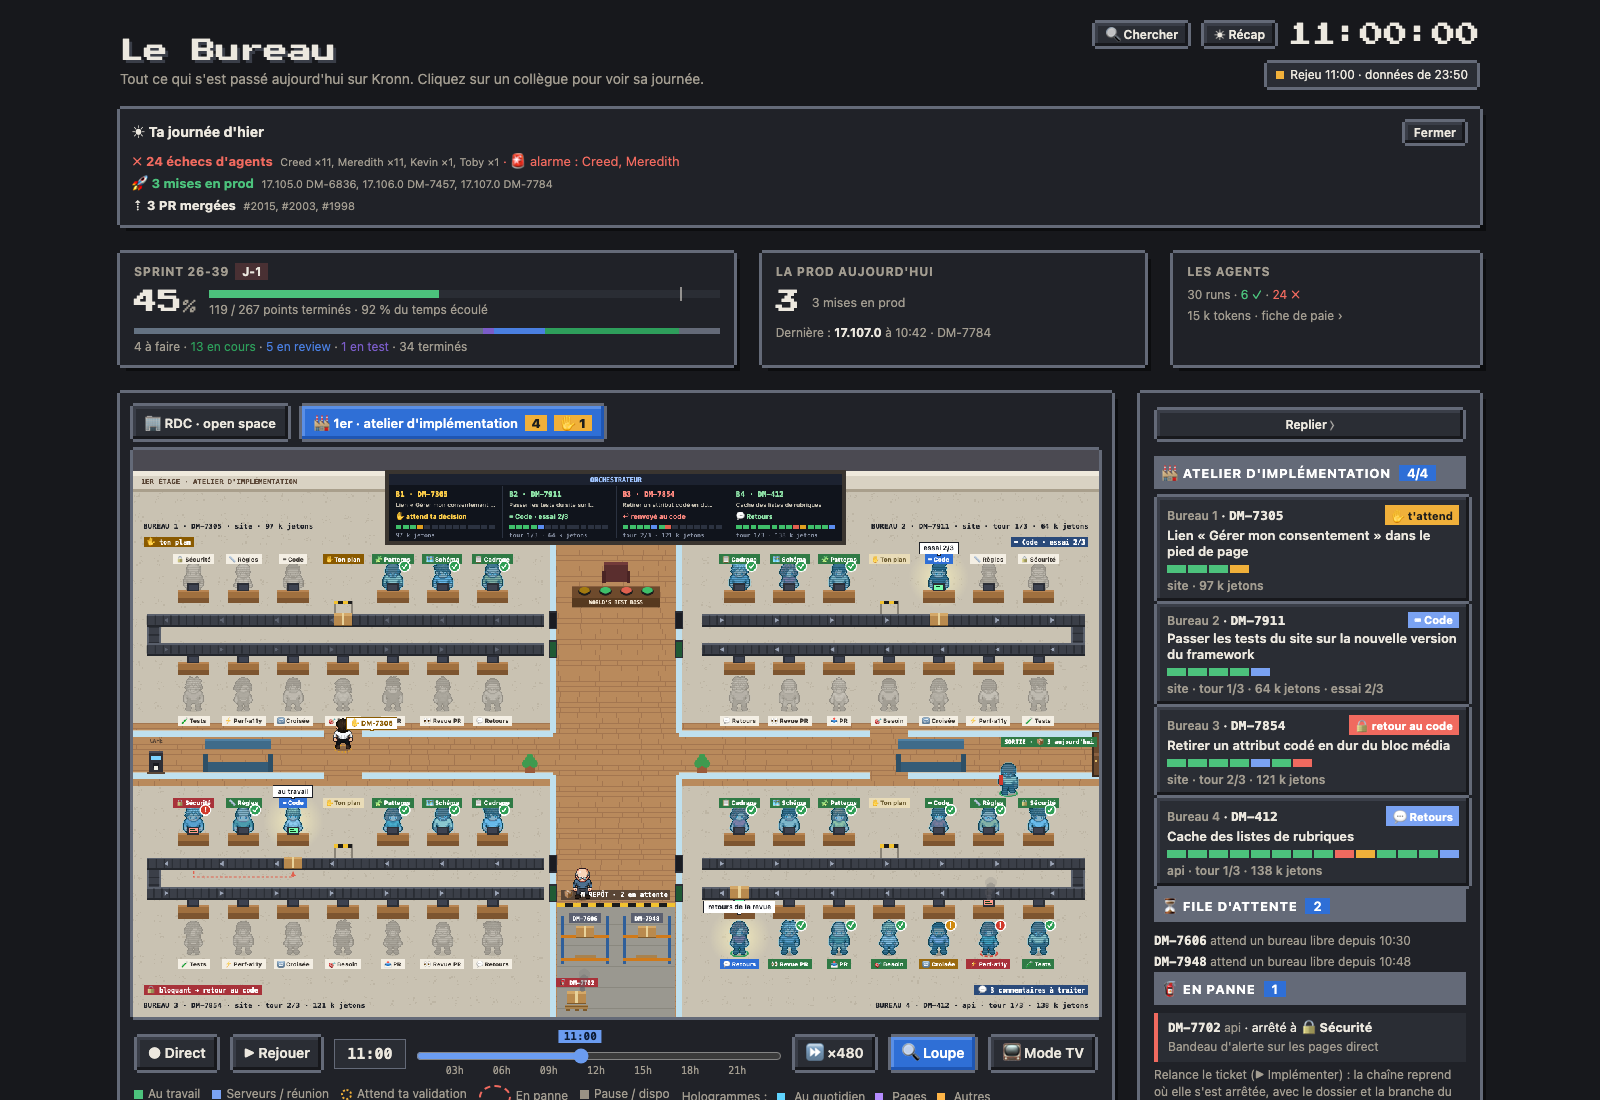
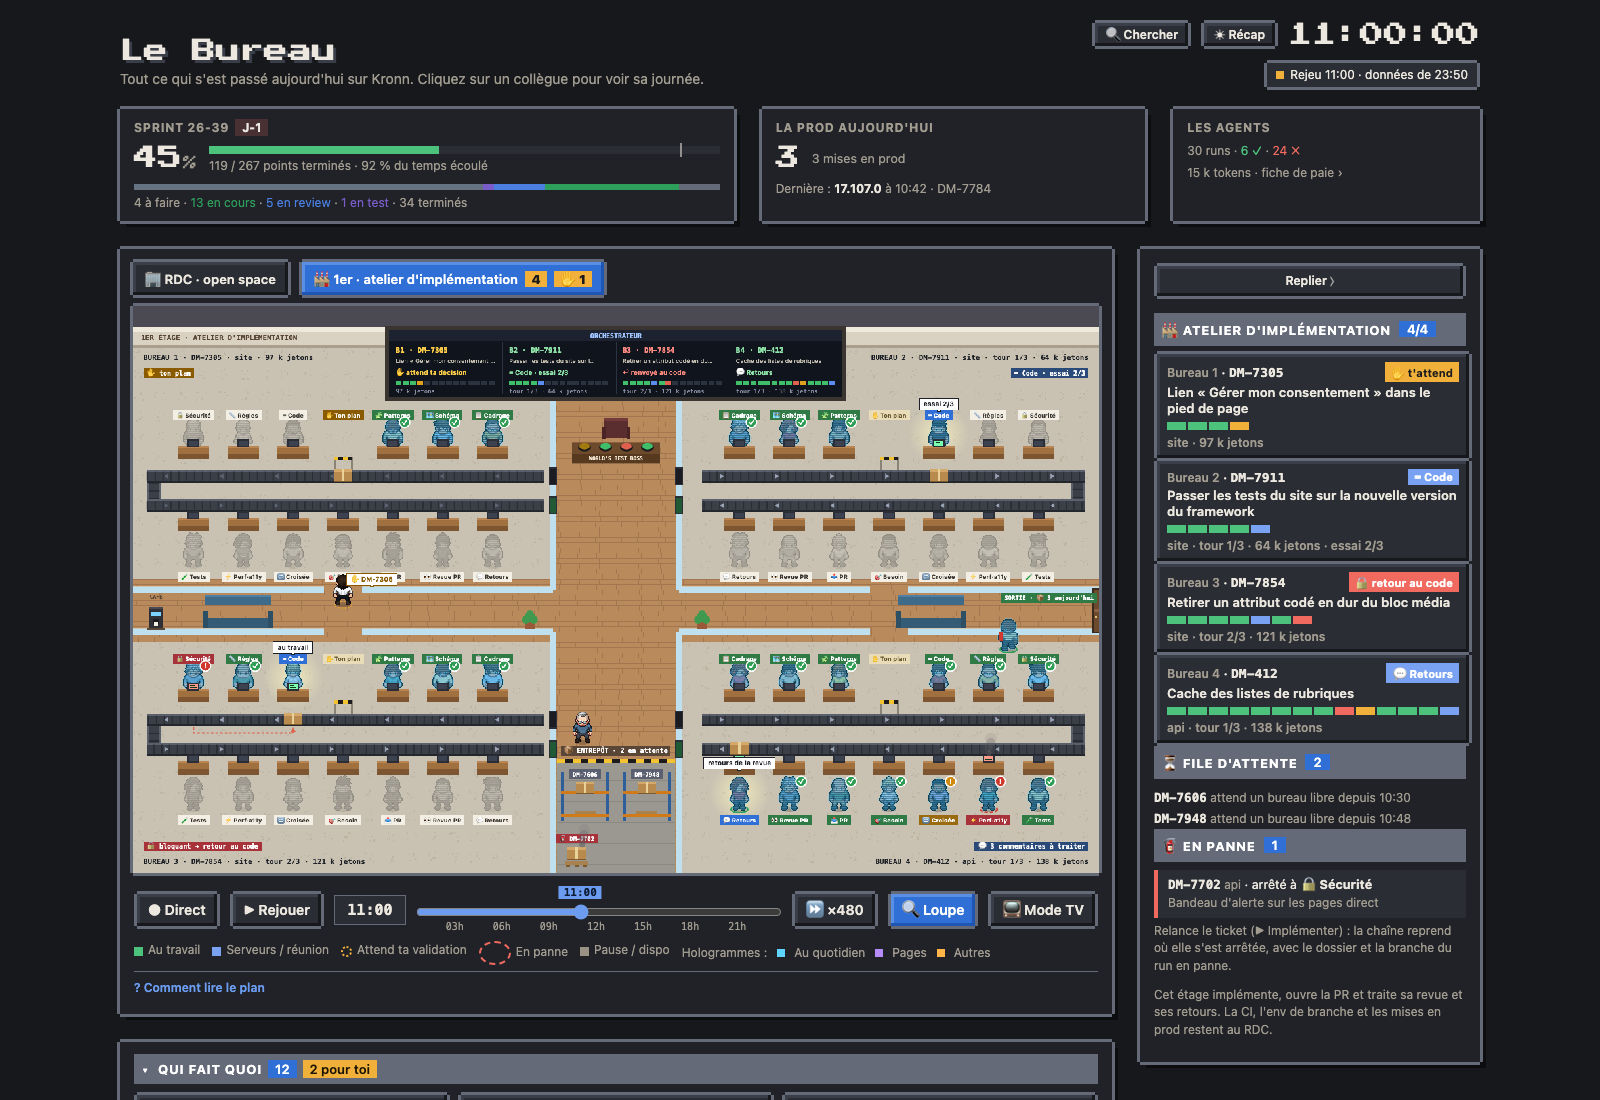
feat(atelier): Bernard un peu moins dégarni, Père Noël et fantôme ; titres des bureaux du haut sous le mur ; l'étage au calme en référence visuelle
- Bernard : coupe high_and_tight grise ; à Noël le Père Noël (tenue rouge, barbe
  blanche, bonnet du thème), à Halloween un fantôme avec sa citrouille.
- Titres des bureaux 1 et 2 juste sous le mur, la note dessous.
- Régression visuelle : nouvelle capture atelier-calme (bureaux libres, Bernard à
  l'entrepôt) ; pas de promeneurs avec « réduire les animations », donc des
  captures identiques d'une machine à l'autre.
- Captures du guide : le récap du matin fermé, elles ne dépendent plus de l'heure.

diff --git a/page/src/68-atelier.js b/page/src/68-atelier.js
@@ -90,7 +90,7 @@ const AT_WANDER_MAX=4, AT_WANDER_ROOM=2; // promeneurs des bureaux libres : sur 
 function atGeo(i){
   const [x0,y0,x1,y1,L,top]=AT_ROOMS[i], T=AT_TS, o=top?0:-.9, Y=v=>(y0+v+o)*T;
   const g={i,x0,y0,x1,y1,L:!!L,top:!!top,bx0:(x0+1.7)*T,bx1:(x1-1.7)*T,H:.6*T,b1:Y(4.8),b2:Y(6.2),lab1:Y(2.3),desk1:Y(3.65),feet1:Y(3.85),
-    desk2:Y(7.1),feet2:Y(9.35),lab2:Y(10.0),head:top?(y0+.75)*T:(y1-.45)*T,noteY:top?(y0+1.5)*T:(y1-1.15)*T,wallX:(L?AT_CX0:AT_CX1)*T};
+    desk2:Y(7.1),feet2:Y(9.35),lab2:Y(10.0),head:top?(y0-.45)*T:(y1-.45)*T,noteY:top?(y0+.3)*T:(y1-1.15)*T,wallX:(L?AT_CX0:AT_CX1)*T};
   g.sw=(g.bx1-g.bx0)/7;g.ex=L?g.bx1+.6*T:g.bx0-.6*T;g.turnX=L?g.bx0-1.05*T:g.bx1+.35*T;g.tm=g.turnX+.35*T;
   g.door={x:(x0+x1)/2*T,y:(top?AT_HY0:AT_HY1)*T};g.aisle=top?(y1-.45)*T:(y0+.55)*T;
   g.hatch=row=>({x:g.wallX+(L?.7:-.7)*T,y:(row===1?g.b1:g.b2)+g.H/2+12});
@@ -185,6 +185,7 @@ function atHome(i,k){const g=AT_G[i], s=atSpot(g,k);return {x:s.x,y:s.row===1?g.
 function atWanderPath(i,k,spot){const g=AT_G[i], h=atHome(i,k);return [h,{x:h.x,y:g.aisle},{x:g.door.x,y:g.aisle},{x:g.door.x,y:AT_MY},{x:spot.x,y:spot.y}];}
 // une image : sorties, retours à la place, nouveaux promeneurs (rnd : tirage, remplaçable pour les tests)
 function atWanderTick(slots,now,dt,rnd){
+  if(REDUCED_MOTION&&!rnd){AT_MEM.wander=[];return;}
   rnd=rnd||Math.random;
   const free=i=>!slots[i]&&!AT_MEM.leaving[i];
   for(const w of AT_MEM.wander){
@@ -420,11 +421,22 @@ function xmasTreeAt(x,y,now){ctx.fillStyle='#2f7a3a';for(let k=0;k<3;k++){ctx.be
 // ---------- Bernard : il apporte les tickets de l'entrepôt et emporte ceux qui sortent ----------
 // Un vrai personnage (pas un hologramme) : homme âgé, dégarni, lunettes, blouse de travail. Un seul Bernard : les
 // livraisons passent l'une après l'autre ; entre deux, il attend à l'entrepôt.
-RECIPES.at_bernard=RECIPES.at_bernard||{sex:'male',head:'male_elderly',skin:'light',hair:'balding',hair_color:'#c9c9c9',glasses:'glasses',
+// Noël : il devient le Père Noël (tenue rouge, barbe blanche, le bonnet du thème) ; Halloween : un fantôme sous son drap
+RECIPES.at_bernard=RECIPES.at_bernard||{sex:'male',head:'male_elderly',skin:'light',hair:'high_and_tight',hair_color:'#c9c9c9',glasses:'glasses',
   torso:'longsleeve/longsleeve',shirt:'#4a6b8a',legs:'pants',legs_color:'#3a3f4a',shoes:'#2a1f18'};
-const AT_BERNARD_HOME={x:AT_MX-1.6*AT_TS,y:21.3*AT_TS};
-function atBernard(pos,dir,moving){return {key:'at_bernard',sprite:'at_bernard',name:'Bernard',role:'Manutentionnaire',person:true,pos:{x:pos.x,y:pos.y},tile:null,
+RECIPES.at_bernard_noel=RECIPES.at_bernard_noel||{...RECIPES.at_bernard,hair_color:'#f4f4f4',beard:'beard/basic',shirt:'#c8323a',legs_color:'#c8323a',shoes:'#1c1c1c'};
+const AT_BERNARD_HOME={x:AT_MX-1.6*AT_TS,y:20.75*AT_TS};
+function atBernard(pos,dir,moving){return {key:'at_bernard',sprite:themeIs('noel')?'at_bernard_noel':'at_bernard',ghost:themeIs('halloween'),name:'Bernard',role:'Manutentionnaire',person:true,pos:{x:pos.x,y:pos.y},tile:null,
   dir:dir||'down',moving:!!moving,pose:'stand',present:true,phase:1.3,_st:{st:moving?'work':'idle'}};}
+function atGhost(c,now){
+  const x=Math.round(c.pos.x), y=Math.round(c.pos.y)-4-Math.round(Math.sin(now/300)*2), side=c.dir==='left'?-1:c.dir==='right'?1:0;
+  ctx.fillStyle='rgba(0,0,0,.18)';ctx.beginPath();ctx.ellipse(x,c.pos.y+1,11,4,0,0,7);ctx.fill();
+  ctx.fillStyle='#f4f2ee';ctx.beginPath();ctx.arc(x,y-36,13,Math.PI,0);ctx.lineTo(x+13,y-4);
+  for(let k=0;k<4;k++){const w=26/4;ctx.lineTo(x+13-w*(k+.5),y-(k%2?6:0)-((Math.floor(now/200)+k)%2)*2);ctx.lineTo(x+13-w*(k+1),y-4);}ctx.closePath();ctx.fill();
+  ctx.strokeStyle='#c9c4ba';ctx.lineWidth=1;ctx.stroke();
+  if(c.dir!=='up'){R(ctx,x-6+side*3,y-40,3,5,'#1c1c1c');R(ctx,x+3+side*3,y-40,3,5,'#1c1c1c');R(ctx,x-2+side*3,y-31,4,3,'#1c1c1c');}
+  E('🎃',x+(side||1)*14,y-12,12);
+}
 // ---------- scènes : livraison d'un ticket (entrepôt -> trappe d'entrée), sortie (trappe de sortie -> porte) ----------
 function atScenes(now,dt,people){
   const sc=AT_MEM.scenes[0];
@@ -471,7 +483,7 @@ function renderAtelier(now){
     atHit('agent',w.walk.pos.x-14,w.walk.pos.y-56,28,58,{i:w.i,k:w.k});}
   atScenes(now,dt,people);
   atBoss(slots,now,dt,people);
-  people.sort((a,b)=>a[0].pos.y-b[0].pos.y).forEach(([c,d,before,after])=>{if(before&&d)d();drawChar(c,now);if(!before&&d)d();if(after)after();});
+  people.sort((a,b)=>a[0].pos.y-b[0].pos.y).forEach(([c,d,before,after])=>{if(before&&d)d();if(c.ghost)atGhost(c,now);else drawChar(c,now);if(!before&&d)d();if(after)after();});
   atSofaFront(5*T,AT_HY0*T+44);atSofaFront(38*T,AT_HY0*T+44);
   atBoard(slots);
   atPicked(slots,now);

diff --git a/tools/shots.py b/tools/shots.py
@@ -20,7 +20,8 @@ from smoke import CHROME, CHROME_ARGS, TAB_WAIT, free_port, team_config, wait_ta
 OUT = os.path.join(ROOT, "guide", "img")
 PORT = 9335
 # avant chaque capture : hors mode TV (mémorisé par le navigateur), lecture en pause à 11h, personnages posés à leur place
-AT = lambda h: f"applySkin('classique');if(TV)setTv(false);setMode('pause');T=DAY0+{h}*3600e3;needTeleport=true;"  # noqa: E731
+# récap du matin fermé : il s'ouvre seul avant midi (heure réelle), la capture ne dépend pas de l'heure où on la prend
+AT = lambda h: f"applySkin('classique');if(TV)setTv(false);setMode('pause');T=DAY0+{h}*3600e3;needTeleport=true;RECAP_OPEN=false;renderRecap();"  # noqa: E731
 WAIT = "new Promise(r=>setTimeout(r,2500))"
 # nom -> (largeur, hauteur, JS de mise en scène, sélecteur à rogner ; None = la fenêtre[, échelle de la capture[, autre plan]])
 # pages Kronn du boss simulées (#61) : 5 pages aux miniatures dessinées, le workflow pages branché, deux pages à ajouter
@@ -273,6 +274,8 @@ SHOTS = {
     # 1er étage, l'atelier d'implémentation (#125) : les quatre bureaux de la démo, puis la fiche du bureau qui a un bloquant
     "atelier": (1600, 1100, AT(11) + "setFloor(1);", None),
     "atelier-fiche": (1600, 1100, AT(11) + "setFloor(1);ATSEL='demo-a3';renderSide(true);", None),
+    # le 1er étage au calme : deux bureaux libres, éteints, Bernard à l'entrepôt, personne en file
+    "atelier-calme": (1600, 1100, AT(11) + "ATELIER={...ATELIER,rooms:ATELIER.rooms.slice(0,2),queue:[],pannes:[]};setFloor(1);", None),
     "temps-gagne-ia": (1400, 1000, AT(11) + "ACTIONS.ai_time=true;ACTION_BINDS['bureau-aitime']={ticket:'key'};"
                        "const all=[...TEAM.people.flatMap(p=>p.tickets),...(TEAM.unassigned||[])];ACTS={tickets:all.map(t=>({key:t.key})),prs:[]};"
                        "openTicket(all.find(t=>t.cat==='done').key);", ".kbv"),

diff --git a/tools/visual.py b/tools/visual.py
@@ -26,7 +26,7 @@ REF = os.path.join(ROOT, "tests", "visual")
 DIFF = os.path.join(ROOT, "dist", "visual")
 META = os.path.join(REF, "references.json")
 # captures clés : le plan (personnages, bureaux, scènes), les fiches, le fil, les murs, la TV, le mobile, le 1er étage
-NAMES = ["plan", "fiche-agent", "fiche-collegue", "fiche-ticket", "fil", "kanban", "tv", "mobile", "atelier"]  # atelier : le 1er étage (#125)
+NAMES = ["plan", "fiche-agent", "fiche-collegue", "fiche-ticket", "fil", "kanban", "tv", "mobile", "atelier", "atelier-calme"]  # le 1er étage (#125), occupé et au calme
 SEUIL = 24
 FRAMES = 60  # images jouées avant chaque capture (2 s de temps virtuel)
 TOLERANCE = 0.003

diff --git a/docs/testing-quality.md b/docs/testing-quality.md
@@ -17,7 +17,7 @@ CI GitHub Actions (`.github/workflows/tests.yml`) : `sh tools/test.sh --chrome` 
 | Chargement Chrome headless | `sh tools/test.sh --chrome` (passe `--chrome` aux deux smoke) | Aucune exception JS, zéro `console.error` ; puis la même page dans le cadre de Kronn (iframe `sandbox="allow-scripts"`, CSP de Kronn en `<meta>` après `<head>`) : démarrage, aucune erreur, rien de bloqué par la CSP, ajout d'une todo par ＋ et Entrée [src: file: tools/smoke.py:37] |
 | Rien de bloqué par la sandbox | `node --test tests/sandbox.test.js` | Aucun formulaire, appel réseau, `window.open`, worker ni ressource externe dans `page/` [src: file: tests/sandbox.test.js:1] |
 | Poids de ta vraie page | `python3 tools/smoke.py` (en local, avec `bureau.config.json`) ; `publish.py page` et `install.py` | Taille de la page que publish enverrait ; au-delà de 24 Mio (garde-fou de Kronn), rien n'est envoyé (`assemble.publishable`, `PageTooBig`), alerte à 90 % [src: file: tools/assemble.py:576] |
-| Régression visuelle | `.venv/bin/python tools/visual.py` (lancée par `tools/test.sh --chrome`) | 8 captures clés comparées à `tests/visual/` (temps figé et virtuel : deux rendus identiques ; tolérance 0,3 %) ; stricte sur la plateforme des références (Linux, CI), indicative ailleurs [src: file: tools/visual.py:1] |
+| Régression visuelle | `.venv/bin/python tools/visual.py` (lancée par `tools/test.sh --chrome`) | 10 captures clés comparées à `tests/visual/` (temps figé et virtuel : deux rendus identiques ; tolérance 0,3 %), dont le 1er étage occupé (`atelier`) et au calme (`atelier-calme`) ; stricte sur la plateforme des références (Linux, CI), indicative ailleurs. Toute retouche du dessin (RDC ou 1er étage) refait ses références par le label « références visuelles » sur la PR, avec la page du guide et ses captures [src: file: tools/visual.py:1] |
 | Règle du guide (PR) | `python3 tools/visual.py --guide-rule origin/main` | Références visuelles changées ⇒ `guide/` changé ; levée par le label « références seules » [src: file: .github/workflows/tests.yml:1] |
 | Modèles = workflows du Kronn | `python3 tools/templates.py check` | `DIFF` si le rendu d'un modèle diffère du workflow installé ; code de sortie 1 [src: file: tools/templates.py:289] |
 
@@ -92,7 +92,7 @@ Vérifié par recherche du nom de module dans `tests/` (2026-10-11) :
 - `workflows/gate_decide.py` : aucun test ne le référence (`avatar_save.py` et `payroll_snapshot.py` sont couverts par le test de contrat, 2026-10-12).
 - `tools/publish.py` (publication vers Kronn, lancée par l'humain seul), `tools/shots.py` (captures), `tools/cdp.py` (pilotage Chrome) : pas de test.
 - `tools/smoke.py` n'a pas de test propre (c'est lui-même un contrôle).
-- Rendu visuel : 8 captures clés comparées (`tools/visual.py`) ; les autres vues (scènes, thèmes saisonniers, éditeur…) restent relues à l'oeil.
+- Rendu visuel : 10 captures clés comparées (`tools/visual.py`), le RDC et le 1er étage ; les autres vues (scènes animées, thèmes saisonniers, éditeur…) restent relues à l'oeil.
 - Appels réels à Kronn, GitHub, Jira, Microsoft Graph : remplacés par des faux dans les tests ; la conformité des workflows installés se vérifie avec `python3 tools/templates.py check` (demande un Kronn joignable).
 
 ## Smoke checks (pre-commit)

diff --git a/guide/fonctionnalites/23-atelier.md b/guide/fonctionnalites/23-atelier.md
@@ -23,8 +23,11 @@ Les workflows de l'étage (le lanceur, la chaîne et ses postes, modèles `impl*
 - **Le grand tableau de l'orchestrateur**, en haut : une colonne par bureau, avec le ticket, le poste en cours ou la décision, la barre des postes, le tour et les jetons.
 - **Le boss**, dans son fauteuil rouge derrière son bureau à quatre boutons (un par bureau, jaune quand ce bureau t'attend). Quand une gate t'attend, il se lève et va à la porte du bureau, puis revient s'asseoir. Une escalade (« la chaîne demande un humain ») allume un gyrophare au-dessus de la porte.
 - **L'entrepôt**, en bas du couloir central : les tickets en attente sur les rayonnages, les tickets en panne sur des palettes (🧯, à relancer).
-- **Les livraisons** : un ticket qui arrive est apporté de l'entrepôt à la trappe d'entrée par **Bernard** (le manutentionnaire : âgé, dégarni, lunettes, blouse bleue) et son transpalette ; un ticket qui sort (PR ouverte) attend à la trappe de sortie, Bernard vient le chercher et repart par la porte de sortie. Il n'y a qu'un Bernard : les livraisons passent l'une après l'autre, et entre deux il attend à l'entrepôt, à droite, où un compteur dit combien de tickets sont sortis aujourd'hui. Le café est au bout gauche du couloir, avec deux canapés comme au RDC.
+- **Les livraisons** : un ticket qui arrive est apporté de l'entrepôt à la trappe d'entrée par **Bernard** (le manutentionnaire : âgé, un peu dégarni, lunettes, blouse bleue) et son transpalette ; un ticket qui sort (PR ouverte) attend à la trappe de sortie, Bernard vient le chercher et repart par la porte de sortie. Il n'y a qu'un Bernard : les livraisons passent l'une après l'autre, et entre deux il attend à l'entrepôt, à droite, où un compteur dit combien de tickets sont sortis aujourd'hui. Le café est au bout gauche du couloir, avec deux canapés comme au RDC.
+- **Les thèmes** : les agents portent les chapeaux du RDC. À Noël, Bernard devient le Père Noël, les cartons sont des paquets cadeaux, une guirlande court sur le grand tableau et un sapin attend dans le couloir ; à Halloween, Bernard passe en fantôme avec sa citrouille, les cartons sont des citrouilles et une toile d'araignée pend au tableau ; au Nouvel an et à la Saint-Valentin, des ballons dans le couloir (et un cœur qui s'envole quand un poste rend son ✓, une rose sur le bureau du boss).
 - Les scènes ne se jouent que sur l'étage affiché : en montant, l'étage se pose tel qu'il est ; au retour au RDC, chacun reprend sa place.
+
+![Le 1er étage au calme : deux bureaux libres, éteints, Bernard à l'entrepôt](../img/atelier-calme.png)
 
 ## Le panneau
 
